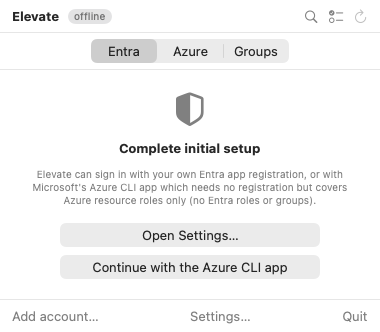
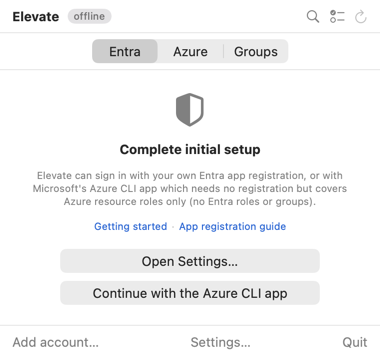
App: link the setup panel and Settings to the guides on GitHub
The first-run panel shows a caption row linking to the getting-started
guide's sign-in section and the app registration guide. The Entra app
registration section in Settings carries the same row in subdued form,
and its captions point at the guide instead of the README. The two URLs
live in DocsLinks so both screens share one definition. The docs render
of the setup panel is refreshed and the guide mentions the links.

diff --git a/macos/Sources/ElevateApp/Views/SettingsView.swift b/macos/Sources/ElevateApp/Views/SettingsView.swift
@@ -76,12 +76,13 @@ struct SettingsView: View {
                     }
                 }
                 if model.ownAppViaLoopback {
-                    Text("This unsigned build signs in through the browser (loopback), so register http://localhost under the Mobile and desktop applications platform instead of the msauth.… URI, and add the Graph PIM permissions listed in the README. A signed build uses the msauth.\(AppSettings.bundleId)://auth redirect under the iOS/macOS platform; registering both is harmless.")
+                    Text("This unsigned build signs in through the browser (loopback), so register http://localhost under the Mobile and desktop applications platform instead of the msauth.… URI, and add the Graph PIM permissions listed in the app registration guide. A signed build uses the msauth.\(AppSettings.bundleId)://auth redirect under the iOS/macOS platform; registering both is harmless.")
                         .font(.caption).foregroundStyle(.secondary)
                 } else {
-                    Text("Register the redirect URI under the iOS/macOS platform with bundle ID \(AppSettings.bundleId) and add the Graph PIM permissions listed in the README.")
+                    Text("Register the redirect URI under the iOS/macOS platform with bundle ID \(AppSettings.bundleId) and add the Graph PIM permissions listed in the app registration guide.")
                         .font(.caption).foregroundStyle(.secondary)
                 }
+                DocsLinksRow()
                 if let error { Text(error).font(.caption).foregroundStyle(.red) }
                 else if saved { Text("Saved. Add your accounts from the Elevate menu.").font(.caption).foregroundStyle(.secondary) }
                 else if isSaveable { Text("Press Return to apply.").font(.caption).foregroundStyle(.secondary) }

diff --git a/macos/Sources/ElevateApp/Views/DocsLinks.swift b/macos/Sources/ElevateApp/Views/DocsLinks.swift
@@ -1,0 +1,19 @@
+import SwiftUI
+
+/// The user guides on GitHub that the setup panel and Settings point to.
+enum DocsLinks {
+    static let gettingStarted = URL(string: "https://github.com/FrodeHus/elevate/blob/main/docs/getting-started.md#2-choose-how-to-sign-in")!
+    static let appRegistration = URL(string: "https://github.com/FrodeHus/elevate/blob/main/docs/entra-app-registration.md")!
+}
+
+/// A caption-sized row of the two guide links, separated by a middle dot.
+struct DocsLinksRow: View {
+    var body: some View {
+        HStack(spacing: 4) {
+            Link("Getting started", destination: DocsLinks.gettingStarted)
+            Text("·").foregroundStyle(.tertiary)
+            Link("App registration guide", destination: DocsLinks.appRegistration)
+        }
+        .font(.caption)
+    }
+}

diff --git a/macos/Sources/ElevateApp/Views/SetupView.swift b/macos/Sources/ElevateApp/Views/SetupView.swift
@@ -14,6 +14,8 @@ struct SetupView: View {
                 Text("This build is unsigned, so your own registration signs in through the browser: register http://localhost under Mobile and desktop applications rather than the msauth.… redirect.")
                     .font(.caption).foregroundStyle(.secondary).multilineTextAlignment(.center)
             }
+            // Point first-time users at the guides on GitHub before they pick a route.
+            DocsLinksRow()
             // Stacked buttons share one width; the primary path is prominent, the other plain.
             VStack(spacing: 8) {
                 SettingsLink { Text("Open Settings…").frame(maxWidth: .infinity) }.buttonStyle(.borderedProminent)

diff --git a/docs/getting-started.md b/docs/getting-started.md
@@ -20,9 +20,9 @@ icon (a double chevron) sits in the menu bar. Click it to open the panel.
 ## 2. Choose how to sign in
 
 Elevate signs in with an Entra app registration. On first launch the panel asks you to complete
-setup:
+setup, and links to this guide and to the app registration guide on GitHub:
 
-![The panel on first launch, offering Open Settings and Continue with the Azure CLI app](images/tutorials/panel-setup.png)
+![The panel on first launch, linking to the guides and offering Open Settings and Continue with the Azure CLI app](images/tutorials/panel-setup.png)
 
 You have two routes:
 
